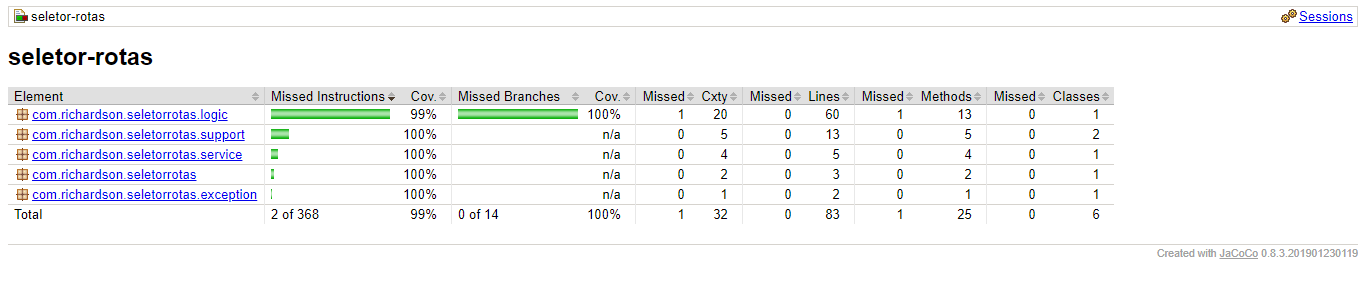
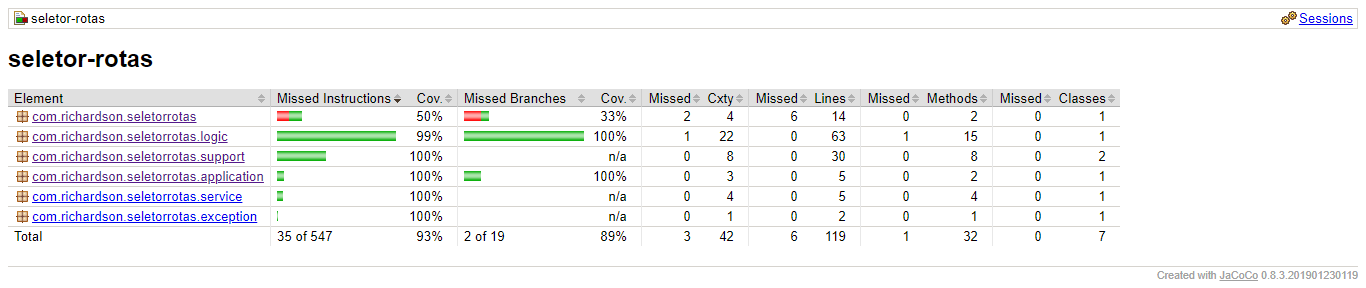
Finalizado!

Changed region(s): [[0.0, 0.2797, 1.0, 0.979], [0.0, 0.0, 1.0, 0.1119], [0.0, 0.1678, 0.123, 0.2517]]

diff --git a/src/test/java/com/richardson/seletorrotas/logic/SeletorRotasTest.java b/src/test/java/com/richardson/seletorrotas/logic/SeletorRotasTest.java
@@ -4,6 +4,7 @@ import static org.junit.Assert.assertEquals;
 import static org.junit.Assert.assertNotNull;
 import static org.junit.Assert.assertTrue;
 
+import java.security.CodeSource;
 import java.util.List;
 
 import org.junit.Before;
@@ -14,6 +15,7 @@ import org.springframework.test.context.ActiveProfiles;
 import org.springframework.test.context.ContextConfiguration;
 import org.springframework.test.context.junit4.SpringJUnit4ClassRunner;
 
+import com.richardson.seletorrotas.SeletorRotasStarterApplicationTest;
 import com.richardson.seletorrotas.config.RotasBeanTestConfiguration;
 import com.richardson.seletorrotas.exception.SeletorRotasGenericException;
 import com.richardson.seletorrotas.mocks.RotaMock;
@@ -30,8 +32,16 @@ public class SeletorRotasTest {
 	private List<Rota> rotas;
 
 	@Before
-	public void setUp() {
-		this.seletorRotas = new SeletorRotas(rotas);
+	public void setUp() throws Exception {
+		CodeSource codeSource = SeletorRotasStarterApplicationTest.class.getProtectionDomain().getCodeSource();
+		this.seletorRotas = new SeletorRotas(rotas,
+				codeSource.getLocation().toURI().getPath().concat("/csv/input-routes.csv"));
+	}
+
+	@Test
+	public void deveInstanciarViaDefaultConstructor() {
+		SeletorRotas s = new SeletorRotas();
+		assertNotNull(s);
 	}
 
 	@Test
@@ -43,18 +53,18 @@ public class SeletorRotasTest {
 
 	@Test(expected = SeletorRotasGenericException.class)
 	public void deveLancarExcecaoAoRetornarRotasCadastradas() {
-		this.seletorRotas = new SeletorRotas(null);
+		this.seletorRotas = new SeletorRotas(null, null);
 		this.seletorRotas.recuperarRotas();
 	}
 
 	@Test
 	public void deveRegistrarRota() {
-		Rota rota = RotaMock.criarRota();
-		int totalRotas = this.rotas.size() + 1;
+		List<Rota> rotas = RotaMock.criarRotaList();
+		this.rotas.clear();
 
-		this.seletorRotas.registrarRota(rota);
+		this.seletorRotas.registrarRotas(rotas);
 
-		assertEquals(totalRotas, this.rotas.size());
+		assertEquals(rotas.size(), this.rotas.size());
 	}
 
 	@Test
@@ -69,7 +79,7 @@ public class SeletorRotasTest {
 
 	@Test(expected = SeletorRotasGenericException.class)
 	public void deveLancarExcecaoAoRecuperarAMelhorRotaPorNaoHaveremRotasCadastradas() {
-		this.seletorRotas = new SeletorRotas(null);
+		this.seletorRotas = new SeletorRotas(null, null);
 		this.seletorRotas.recuperarMelhorRota("BRC", "CDG");
 	}
 

diff --git a/src/test/java/com/richardson/seletorrotas/support/RotaCSVFileHelperTest.java b/src/test/java/com/richardson/seletorrotas/support/RotaCSVFileHelperTest.java
@@ -1,0 +1,53 @@
+package com.richardson.seletorrotas.support;
+
+import static org.junit.Assert.assertNotNull;
+
+import java.nio.file.Path;
+import java.nio.file.Paths;
+import java.time.Instant;
+import java.util.List;
+
+import org.junit.Test;
+import org.junit.runner.RunWith;
+import org.springframework.test.context.junit4.SpringRunner;
+
+import com.richardson.seletorrotas.exception.SeletorRotasGenericException;
+import com.richardson.seletorrotas.mocks.RotaMock;
+import com.richardson.seletorrotas.model.Rota;
+
+@RunWith(SpringRunner.class)
+public class RotaCSVFileHelperTest {
+
+	@Test
+	public void deveLerArquivoCSVDeRotas() {
+		Path diretorio = Paths.get("src", "test", "resources", "csv");
+		String arquivoRotas = diretorio.toString().concat("\\input-routes.csv");
+		List<Rota> actualRotasList = RotaCSVFileHelper.lerArquivo(arquivoRotas);
+		assertNotNull(actualRotasList);
+	}
+
+	@Test(expected = SeletorRotasGenericException.class)
+	public void deveLancarExcecaoAoLerArquivo() {
+		Path diretorio = Paths.get("src", "test", "resources", "csv");
+		String arquivoRotas = diretorio.toString().concat("\\inputs-routes.csv");
+		RotaCSVFileHelper.lerArquivo(arquivoRotas);
+	}
+
+	@Test
+	public void deveGravarArquivoCSVDeRotas() {
+		List<Rota> rotasList = RotaMock.criarRotaList();
+		Path diretorio = Paths.get("src", "test", "resources", "csv");
+		String arquivoRotas = diretorio.toString()
+				.concat("\\input-routes".concat(Integer.toString(Instant.now().getNano())).concat(".csv"));
+		RotaCSVFileHelper.gravarArquivo(arquivoRotas, rotasList);
+		RotaCSVFileHelper.removerArquivo(arquivoRotas);
+	}
+
+	@Test(expected = SeletorRotasGenericException.class)
+	public void deveLancarExcecaoAoGravarArquivo() {
+		List<Rota> rotasList = RotaMock.criarRotaList();
+		Path diretorio = Paths.get("src", "test", "resources", "csv");
+		String arquivoRotas = diretorio.toString();
+		RotaCSVFileHelper.gravarArquivo(arquivoRotas, rotasList);
+	}
+}

diff --git a/src/main/java/com/richardson/seletorrotas/support/RotaCSVFileHelper.java b/src/main/java/com/richardson/seletorrotas/support/RotaCSVFileHelper.java
@@ -1,0 +1,53 @@
+package com.richardson.seletorrotas.support;
+
+import java.io.File;
+import java.io.FileOutputStream;
+import java.io.IOException;
+import java.io.PrintWriter;
+import java.text.MessageFormat;
+import java.util.List;
+
+import org.springframework.stereotype.Component;
+
+import com.fasterxml.jackson.databind.MappingIterator;
+import com.fasterxml.jackson.dataformat.csv.CsvMapper;
+import com.richardson.seletorrotas.exception.SeletorRotasGenericException;
+import com.richardson.seletorrotas.model.Rota;
+
+@Component
+public class RotaCSVFileHelper {
+	public static List<Rota> lerArquivo(String arquivo) {
+		MappingIterator<Rota> rotaIterator;
+
+		try {
+			File arquivoCSV = new File(arquivo);
+			rotaIterator = new CsvMapper().readerWithTypedSchemaFor(Rota.class).readValues(arquivoCSV);
+			return rotaIterator.readAll();
+		} catch (IOException e) {
+			throw new SeletorRotasGenericException(e.getMessage());
+		}
+	}
+
+	public static void gravarArquivo(String arquivo, List<Rota> rotas) {
+		try {
+			File arq = new File(arquivo);
+			arq.createNewFile();
+			FileOutputStream arquivoCSV = new FileOutputStream(arq, true);
+			PrintWriter printWriter = new PrintWriter(arquivoCSV);
+			rotas.forEach(rota -> printWriter.append(converteParaCSV(rota)));
+			printWriter.close();
+			arquivoCSV.close();
+		} catch (IOException e) {
+			throw new SeletorRotasGenericException(e.getMessage());
+		}
+	}
+
+	public static void removerArquivo(String arquivo) {
+		File arq = new File(arquivo);
+		arq.delete();
+	}
+
+	private static String converteParaCSV(Rota rota) {
+		return MessageFormat.format("\n{0},{1},{2}", rota.getOrigem(), rota.getDestino(), rota.getCusto());
+	}
+}

diff --git a/src/main/java/com/richardson/seletorrotas/logic/SeletorRotas.java b/src/main/java/com/richardson/seletorrotas/logic/SeletorRotas.java
@@ -14,12 +14,14 @@ import org.springframework.util.CollectionUtils;
 
 import com.richardson.seletorrotas.exception.SeletorRotasGenericException;
 import com.richardson.seletorrotas.model.Rota;
+import com.richardson.seletorrotas.support.RotaCSVFileHelper;
 
 @Component
 public class SeletorRotas {
 
 	private static final String SEPARADOR_ROTAS = " - ";
 
+	public String arquivoRotas;
 	public List<Rota> rotas;
 
 	private Map<String, Map<String, Integer>> mapaRotas;
@@ -32,8 +34,9 @@ public class SeletorRotas {
 	}
 
 	@Autowired
-	public SeletorRotas(List<Rota> rotas) {
+	public SeletorRotas(List<Rota> rotas, String arquivoRotas) {
 		this.rotas = rotas;
+		this.arquivoRotas = arquivoRotas;
 	}
 
 	public List<Rota> recuperarRotas() {
@@ -44,8 +47,9 @@ public class SeletorRotas {
 		return this.rotas;
 	}
 
-	public void registrarRota(Rota rota) {
-		this.rotas.add(rota);
+	public void registrarRotas(List<Rota> rotas) {
+		rotas.forEach(rota -> this.rotas.add(rota));
+		RotaCSVFileHelper.gravarArquivo(this.arquivoRotas, rotas);
 	}
 
 	public String recuperarMelhorRota(String origem, String destino) {

diff --git a/src/test/java/com/richardson/seletorrotas/service/SeletorRotasServiceTest.java b/src/test/java/com/richardson/seletorrotas/service/SeletorRotasServiceTest.java
@@ -1,7 +1,7 @@
 package com.richardson.seletorrotas.service;
 
 import static org.junit.Assert.assertNotNull;
-import static org.mockito.ArgumentMatchers.any;
+import static org.mockito.ArgumentMatchers.anyList;
 import static org.mockito.ArgumentMatchers.anyString;
 import static org.mockito.Mockito.doNothing;
 import static org.mockito.Mockito.times;
@@ -51,13 +51,13 @@ public class SeletorRotasServiceTest {
 
 	@Test
 	public void deveRegistrarRota() {
-		Rota rota = RotaMock.criarRota();
+		List<Rota> rotaList = RotaMock.criarRotaList();
 
-		doNothing().when(this.seletorRotas).registrarRota(any());
+		doNothing().when(this.seletorRotas).registrarRotas(anyList());
 
-		this.seletorRotasService.registrarRota(rota);
+		this.seletorRotasService.registrarRotas(rotaList);
 
-		verify(this.seletorRotas, times(1)).registrarRota(any());
+		verify(this.seletorRotas, times(1)).registrarRotas(anyList());
 	}
 
 }

diff --git a/src/test/java/com/richardson/seletorrotas/application/WebApplicationTest.java b/src/test/java/com/richardson/seletorrotas/application/WebApplicationTest.java
@@ -1,0 +1,29 @@
+package com.richardson.seletorrotas.application;
+
+import java.security.CodeSource;
+
+import org.junit.Test;
+import org.junit.runner.RunWith;
+import org.mockito.InjectMocks;
+import org.mockito.Mock;
+import org.springframework.test.context.junit4.SpringRunner;
+
+import com.richardson.seletorrotas.SeletorRotasStarterApplicationTest;
+import com.richardson.seletorrotas.logic.SeletorRotas;
+
+@RunWith(SpringRunner.class)
+public class WebApplicationTest {
+
+	@InjectMocks
+	private WebApplication webApplication;
+
+	@Mock
+	private SeletorRotas seletorRotas;
+
+	@Test
+	public void deveExecutarWebApplication() throws Exception {
+		CodeSource codeSource = SeletorRotasStarterApplicationTest.class.getProtectionDomain().getCodeSource();
+		this.webApplication
+				.run(new String[] { codeSource.getLocation().toURI().getPath().concat("/csv/input-routes.csv") });
+	}
+}

diff --git a/src/main/java/com/richardson/seletorrotas/controller/SeletorRotasController.java b/src/main/java/com/richardson/seletorrotas/controller/SeletorRotasController.java
@@ -1,5 +1,7 @@
 package com.richardson.seletorrotas.controller;
 
+import java.util.List;
+
 import javax.validation.Valid;
 import javax.validation.constraints.Size;
 
@@ -64,11 +66,11 @@ public class SeletorRotasController {
 	}
 
 	@PostMapping(value = "/rotas", produces = MediaType.APPLICATION_JSON_VALUE)
-	public ResponseEntity<Object> registrarRota(@RequestBody @Valid Rota rota) {
-		log.info("registrarRota({})", rota.toString());
+	public ResponseEntity<Object> registrarRota(@RequestBody @Valid List<Rota> rotaList) {
+		log.info("registrarRota({})", rotaList.toString());
 
 		try {
-			this.seletorRotasService.registrarRota(rota);
+			this.seletorRotasService.registrarRotas(rotaList);
 			return new ResponseEntity<>(HttpStatus.CREATED);
 		} catch (Exception ex) {
 			log.error("Não foi possível atender a requisição", ex);

diff --git a/src/main/java/com/richardson/seletorrotas/application/ConsoleApplication.java b/src/main/java/com/richardson/seletorrotas/application/ConsoleApplication.java
@@ -8,7 +8,7 @@ import org.springframework.util.ObjectUtils;
 
 import com.richardson.seletorrotas.exception.SeletorRotasGenericException;
 import com.richardson.seletorrotas.logic.SeletorRotas;
-import com.richardson.seletorrotas.support.RotaCSVReader;
+import com.richardson.seletorrotas.support.RotaCSVFileHelper;
 
 @ConditionalOnNotWebApplication
 public class ConsoleApplication implements CommandLineRunner {
@@ -52,7 +52,7 @@ public class ConsoleApplication implements CommandLineRunner {
 	}
 
 	private void alimentarRotas(String arquivoRotas) {
-		this.seletorRotas.rotas = RotaCSVReader.lerArquivo(arquivoRotas);
+		this.seletorRotas.rotas = RotaCSVFileHelper.lerArquivo(arquivoRotas);
 	}
 
 	private Boolean validarEntrada(String entrada) {

diff --git a/src/main/java/com/richardson/seletorrotas/application/WebApplication.java b/src/main/java/com/richardson/seletorrotas/application/WebApplication.java
@@ -6,7 +6,7 @@ import org.springframework.boot.autoconfigure.condition.ConditionalOnWebApplicat
 import org.springframework.stereotype.Component;
 
 import com.richardson.seletorrotas.logic.SeletorRotas;
-import com.richardson.seletorrotas.support.RotaCSVReader;
+import com.richardson.seletorrotas.support.RotaCSVFileHelper;
 
 @Component
 @ConditionalOnWebApplication
@@ -18,9 +18,8 @@ public class WebApplication implements CommandLineRunner {
 	@Override
 	public void run(String... args) throws Exception {
 		if (args.length > 0) {
-			this.seletorRotas.rotas = RotaCSVReader.lerArquivo(args[0]);
+			this.seletorRotas.rotas = RotaCSVFileHelper.lerArquivo(args[0]);
+			this.seletorRotas.arquivoRotas = args[0];
 		}
-
 	}
-
 }

diff --git a/src/test/java/com/richardson/seletorrotas/SeletorRotasStarterApplicationTest.java b/src/test/java/com/richardson/seletorrotas/SeletorRotasStarterApplicationTest.java
@@ -6,9 +6,10 @@ import org.springframework.test.context.junit4.SpringRunner;
 
 @RunWith(SpringRunner.class)
 public class SeletorRotasStarterApplicationTest {
-	
-	  @Test
-	  public void deveIniciarAAplicacao() {
-		  SeletorRotasStarterApplication.main(new String[] {});
-	  }
+
+	@Test
+	public void deveIniciarAAplicacao() {
+		SeletorRotasStarterApplication.main(new String[] {});
+	}
+
 }

diff --git a/src/main/java/com/richardson/seletorrotas/service/SeletorRotasService.java b/src/main/java/com/richardson/seletorrotas/service/SeletorRotasService.java
@@ -21,7 +21,7 @@ public class SeletorRotasService {
 		return this.seletorRotas.recuperarMelhorRota(origem, destino);
 	}
 
-	public void registrarRota(Rota rota) {
-		this.seletorRotas.registrarRota(rota);
+	public void registrarRotas(List<Rota> rotaList) {
+		this.seletorRotas.registrarRotas(rotaList);
 	}
 }

diff --git a/src/main/java/com/richardson/seletorrotas/config/RotasBeanConfiguration.java b/src/main/java/com/richardson/seletorrotas/config/RotasBeanConfiguration.java
@@ -25,4 +25,9 @@ public class RotasBeanConfiguration {
 
 		return rotas;
 	}
+
+	@Bean
+	public String arquivoRotas() {
+		return new String();
+	}
 }
